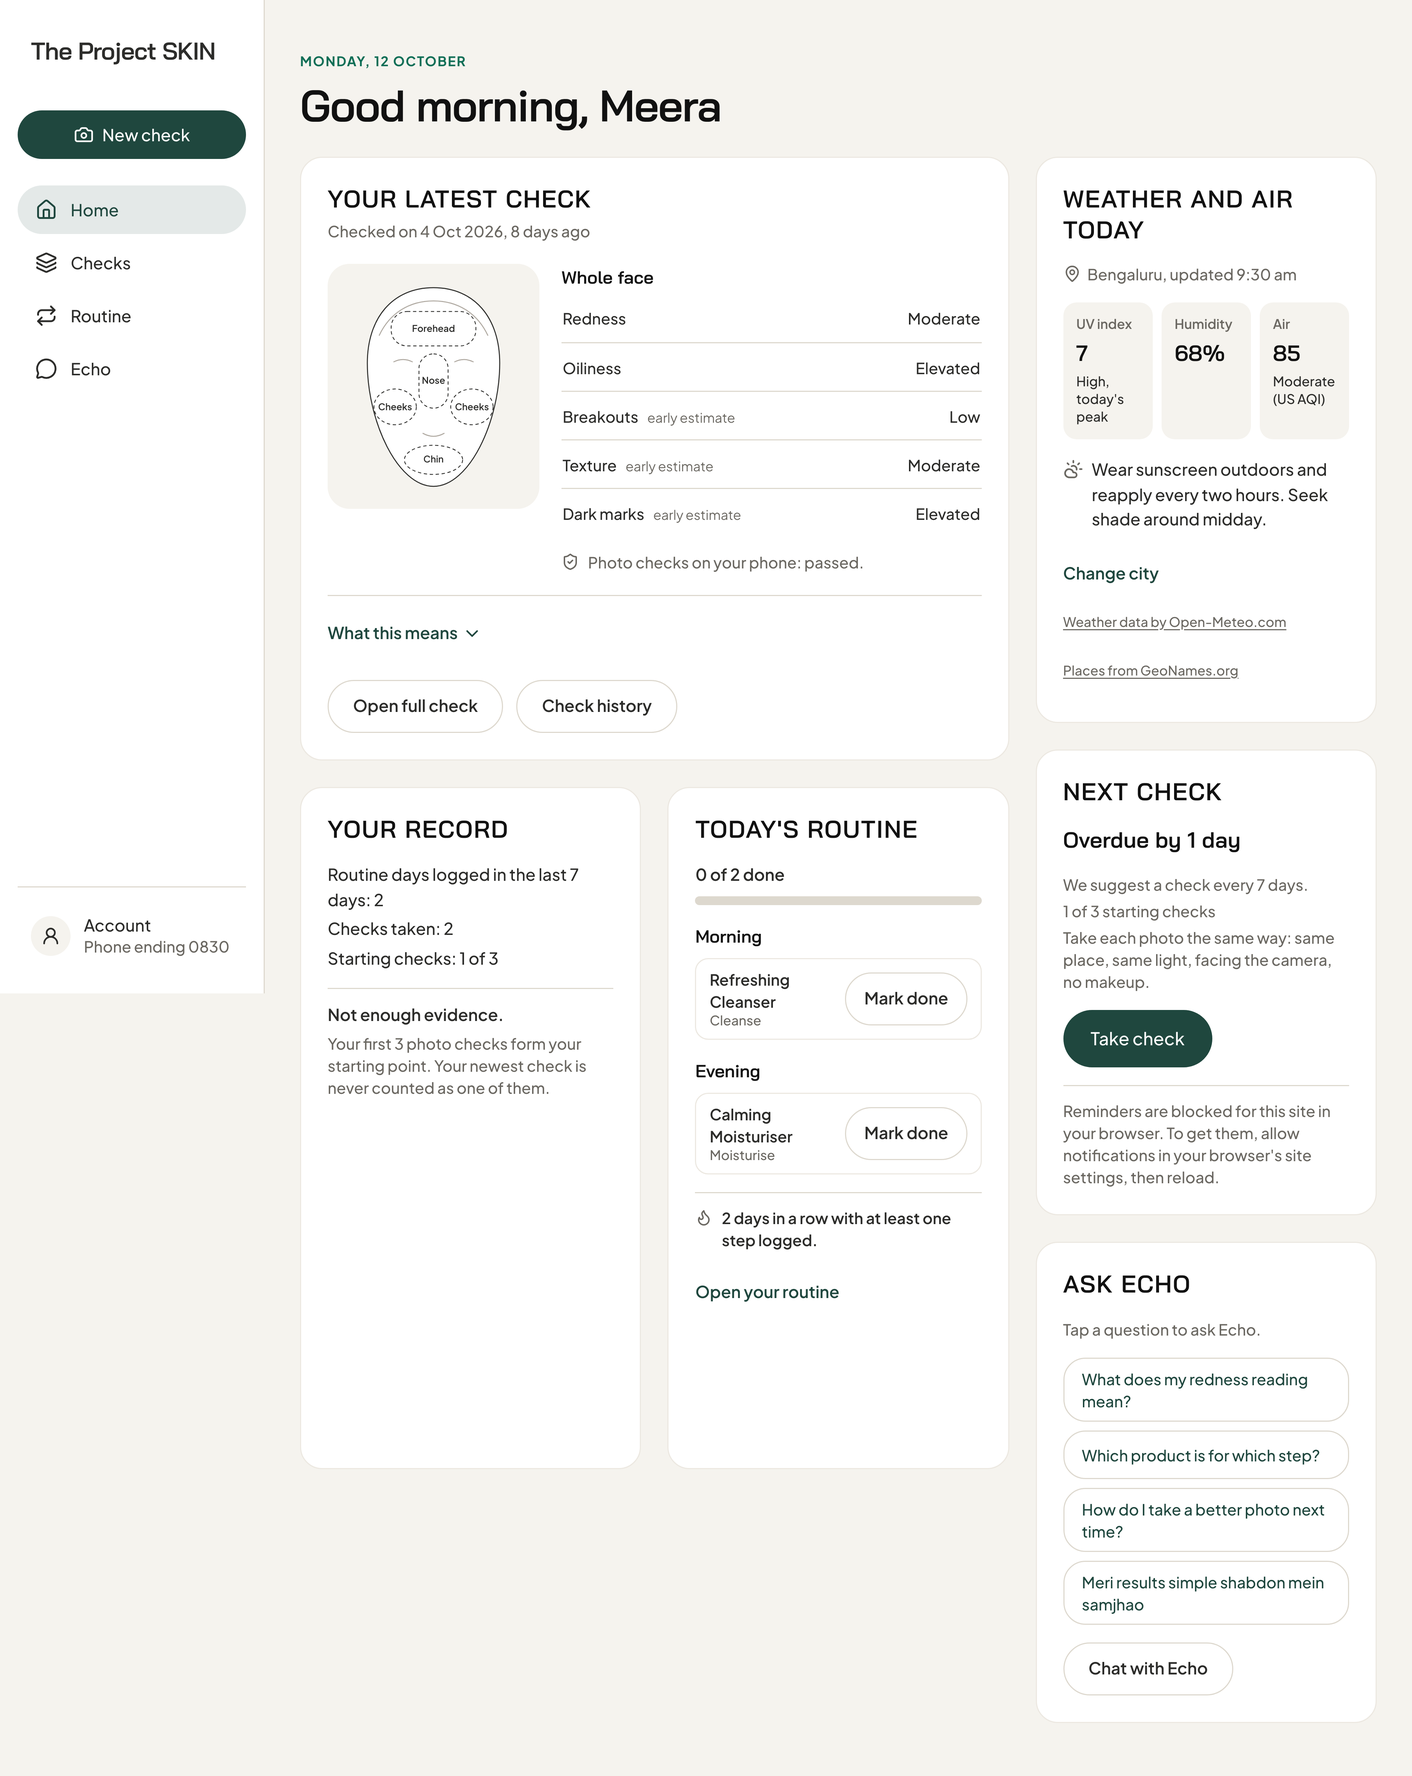
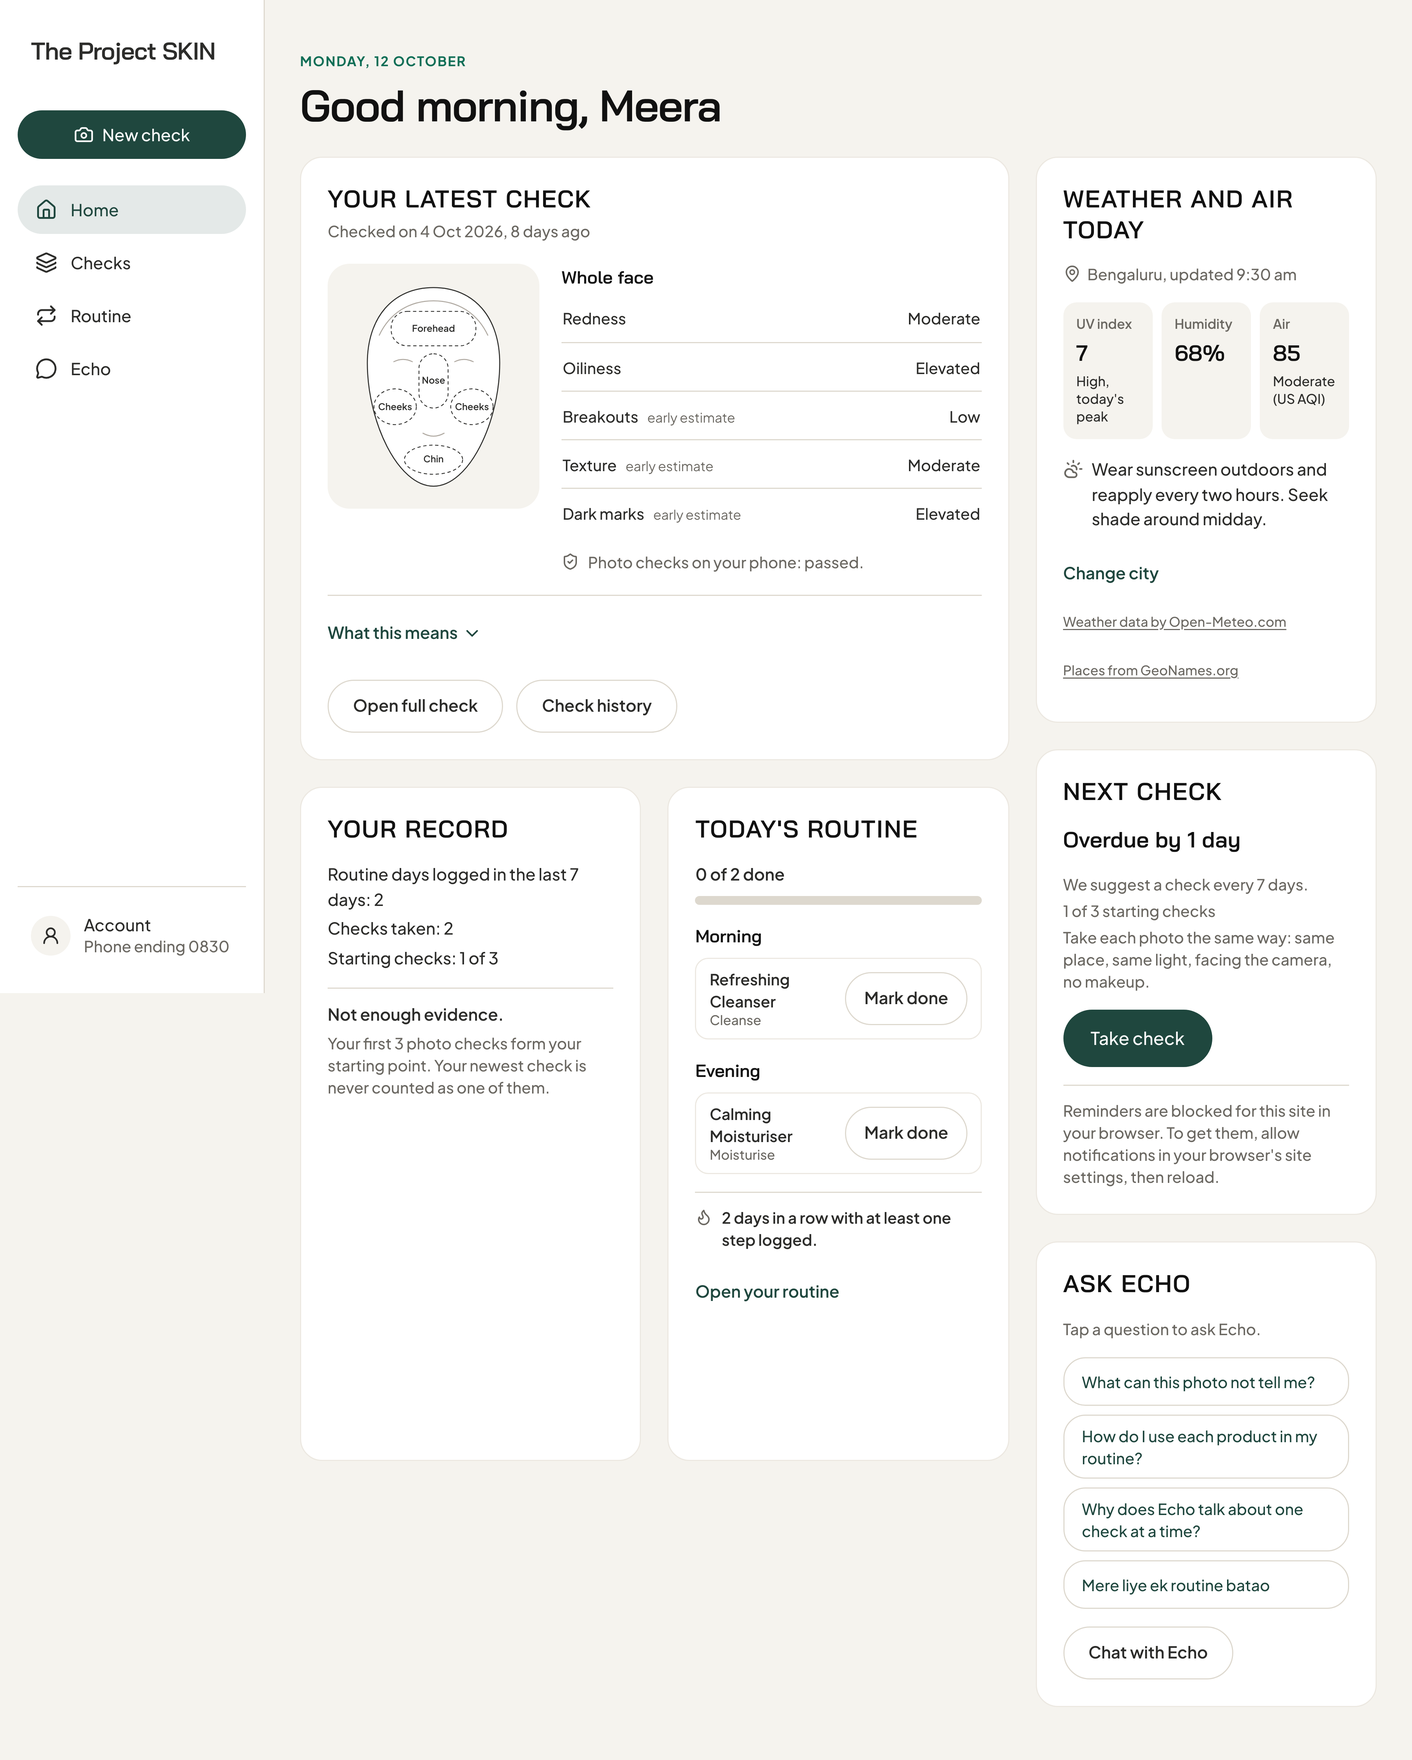
docs(tracker): G28 final test:all at af251b6
Claude-Session: https://claude.ai/code/session_01H4K9Nd3cGAtTNt8i1b7FXg

diff --git a/docs/PROJECT_SKIN_EXECUTION_TRACKER.md b/docs/PROJECT_SKIN_EXECUTION_TRACKER.md
@@ -19,7 +19,7 @@ Percentages measure execution tracking only. They are not scientific accuracy, m
 | Current deployment state | Frontend 3537f82 on Vercel bom1; engine 0.1.6 (skin-scan:3) on ECS ap-south-1; Firestore (default) asia-south1; S3 originals ap-south-1. Next: docs/OWNER_QUEUE.md (cost steps, backups, Gemini key, rules, merge PR #6, phone checks, old key, MFA). |
 | Current architecture state | Longitudinal substrate implemented on branch: server-side raw analysis (gate 01), skinstate-1 computed view (gate 03), trust boundary (gate 02), engine build + native stats inputs (gate 04). No longitudinal comparison, product system, ContextPackage or dashboard exists yet. |
 | Last tracker update | 2026-10-12 |
-| Last validated commit | 48dac01 on feat/home-v2 (2026-10-12, TD-47): npm run test:all exit 0 (unit 2305, stack 84/84, browser 105/105, build OK); PR open, not merged. Before: 61d4b67 on feat/echo-own-products (2026-10-10, TD-34): npm run test:all exit 0 (unit 2159, stack 78/78, browser 59/59, build OK); PR open, not merged. Before: 710ede8 on feat/optional-questionnaire (2026-10-10, TD-33, with the owner's copy decisions): npm run test:all exit 0 (unit 2069, stack 78/78, browser 52/52, build OK); PR #9 open, not merged. Before: 261e39e on release/real-users (2026-10-09, TD-29, after the security, safety and design review fixes): npm run test:all exit 0 (typecheck 0, lint clean, unit 2019 passed / 65 skipped in 93 files, local stack 15 files 64/64, browser 38/38, next build OK); rules emulator 25/25. PR #6 into master, not merged; CI verify and Vercel preview pass. Previous: 57aad53. |
+| Last validated commit | af251b6 on feat/home-v2 (2026-10-12, TD-47): npm run test:all exit 0 (unit 2305, stack 84/84, browser 109/109, build OK); PR open, not merged. Before: 61d4b67 on feat/echo-own-products (2026-10-10, TD-34): npm run test:all exit 0 (unit 2159, stack 78/78, browser 59/59, build OK); PR open, not merged. Before: 710ede8 on feat/optional-questionnaire (2026-10-10, TD-33, with the owner's copy decisions): npm run test:all exit 0 (unit 2069, stack 78/78, browser 52/52, build OK); PR #9 open, not merged. Before: 261e39e on release/real-users (2026-10-09, TD-29, after the security, safety and design review fixes): npm run test:all exit 0 (typecheck 0, lint clean, unit 2019 passed / 65 skipped in 93 files, local stack 15 files 64/64, browser 38/38, next build OK); rules emulator 25/25. PR #6 into master, not merged; CI verify and Vercel preview pass. Previous: 57aad53. |
 | Overall execution percentage | 60% = DONE 86 / (total 153 - LATER 9). Execution tracking only; NOT scientific accuracy or product readiness. DONE includes branch-only work not deployed. |
 | Build status counts | DONE 90, IN PROGRESS 2, NOT STARTED 30, BLOCKED 10, OWNER ACTION 23, LATER 10 (total 165) |
 | Check status counts | CHECKED PROD 6, CHECKED LOCAL 78, NOT NEEDED 17, NOT CHECKED 64 |
@@ -223,7 +223,7 @@ Execution order (TD-04, owner 2026-10-03): Phase 0 deploy is paused after C1. Fe
 | G25 | G | Dashboard | Echo starter questions (TD-41) | Three or four tappable questions above the message box, one per group (results, routine and products, using the app, Hinglish); a new set on each visit and after each answer; a question already asked in the chat is not shown again; product questions hidden while suggestions are off; all hidden when Echo cannot answer (questions not answered, daily limit, Echo off). Pool in components/skin-check/echoStarters.ts. Every pool question passes the comparison, red-flag, result-question and unsupported-script filters (tests/echo-starters.test.ts); "Why can't you compare my checks yet?" hit the comparison filter and was reworded to "Why does Echo talk about one check at a time?". | DONE | CHECKED LOCAL | P1 | E15 | TD-41 | Unassigned | Frontend Engineer | components/skin-check/EchoPage.tsx, components/skin-check/echoStarters.ts | Commit + unit and browser tests + screenshots at 390 | 2026-10-11 at d097346: typecheck 0, lint clean, unit 2229 passed / 79 skipped (119 files); browser, touched specs only on the local stack: flows "returning user" 3/3, echo-products 8/8. npm run test:all at e682b70 (2026-10-11, owner asked for one run): typecheck 0, lint clean, unit 2229 passed / 79 skipped, local stack 16 files 78/78, browser 77/84; the 7 failures were tests still expecting the removed re-ask (mesh.spec TD-39 x6, which waited for the current_products question) and a loose heading match (questionnaire.spec choice heading, also matched the progress label; made exact). After the fix the 7 pass on a fresh stack (7/7) and next build is OK. |  |  |  |  | DASHBOARD | 2026-10-11 |  |
 | G26 | G | Dashboard | Returning user: New check goes to the photo step (TD-43) | Bug: a returning user who started a new check could land on a filled-in About you with nothing left to tap. Cause: the saved answers are read after the page opens; if the user had started typing (slow read) or an earlier draft sat on About you, the answers were merged into About you but the jump to the photo step only ran when nothing had been answered yet, and the flow only advances on a tap. Fix: a signed-in user sees the loading frame until the read lands (at most 4 s) and is placed by section, not by whether anything was typed. New behaviour: an answered returning user goes Verify (passes by itself) to the photo step to results; the saved answers, the two once re-asked included, are attached to the new check; small link "Anything changed? Update your answers" on the photo step brings the question sections back filled in, each with a Continue. A user who skipped before gets the choice screen as today. | DONE | CHECKED LOCAL | P1 | G15 | TD-43 | Unassigned | Frontend Engineer | lib/useSkinCheckFlow.ts, lib/skin-check-validation.ts, components/skin-check/SkinCheckFlow.tsx | Commit + unit and browser tests | 2026-10-11 at d097346: typecheck 0, lint clean, unit 2229 passed / 79 skipped (119 files); browser, touched specs only on the local stack: flows "returning user" 3/3, echo-products 8/8. npm run test:all at e682b70 (2026-10-11, owner asked for one run): typecheck 0, lint clean, unit 2229 passed / 79 skipped, local stack 16 files 78/78, browser 77/84; the 7 failures were tests still expecting the removed re-ask (mesh.spec TD-39 x6, which waited for the current_products question) and a loose heading match (questionnaire.spec choice heading, also matched the progress label; made exact). After the fix the 7 pass on a fresh stack (7/7) and next build is OK. |  |  |  |  | DASHBOARD | 2026-10-11 |  |
 | G27 | G | Dashboard | Face drawing areas open Echo on that area (TD-46) | Owner 2026-10-11 (screenshots of Home and an opened check): the Forehead, Nose, Cheeks and Chin areas on the face drawing were not tappable. Now each area with a reading is a button (mouse and keyboard, named "Ask Echo about your <area>") that opens Echo on that area, on Home and on the opened newest check, only while Echo is on. An older check's areas stay a picture (Echo talks about the newest check only). The photo with the mesh is unchanged. | DONE | CHECKED LOCAL | P2 | G20 | TD-46 | Unassigned | Frontend Engineer | components/dashboard/FaceDrawing.tsx, CheckReadings.tsx, DashboardPage.tsx, copy.ts, components/checks/ChecksView.tsx | Commit + touched tests + test:all | Touched: tests/browser/dashboard.spec.ts (area opens Echo by keyboard; an older check has no area button), dashboard-copy, ui-wording, five-readings pass; tests/browser/mesh.spec.ts finds the drawing as a picture or a group. test:all at f7c250d: unit, stack and build passed; browser 81/86 (4 drawing role checks, fixed in c4f0401; 1 scan-route teardown race, unrelated). Re-run at c4f0401: typecheck, lint, browser 86/86. | fix/home-face-areas-open-echo | Local only; PR not merged |  | Owner: merge. | DASHBOARD | 2026-10-11 |  |
-| G28 | G | Dashboard | Home v2: what to do today (TD-47) | Owner brief 2026-10-11: Home rebuilt (greeting, next check, latest check, today's routine, weather and air today, your record, Ask Echo, new-check banner); one permissions screen after a check's results (location, reminders), once; city and choices in Account; weather from Open-Meteo on the server from rounded positions snapped to an offline place list; payload-free web push with our own VAPID keys and a daily cron. Both features ship off (WEATHER_SWITCH, PUSH_SWITCH). Design: docs/design/home-v2.md; release: docs/OWNER_QUEUE.md H0-H5. Three reviews (security, flow, design): all findings fixed except two owner questions (see report). | DONE | CHECKED LOCAL | P1 | G27 | TD-47 | Unassigned | Frontend Engineer | components/dashboard/, lib/home/, app/api/home/, firestore.rules, public/sw.js, app/globals.css | Commits + unit, rules, browser tests + screenshots + three reviews + test:all | npm run test:all at 48dac01 (2026-10-12): exit 0; typecheck 0, lint clean, unit 2305 passed / 85 skipped (105 files), local stack 17 files 84/84 (rules incl. tests/firestore-rules-home.test.ts, erase and fake-Gemini pins), browser 105/105, next build OK. Screenshots docs/design/home-v2/. | 5fb1de1..48dac01 | Local only; PR not merged | Open-Meteo key and plan (owner, H3); VAPID keys (H4); legal review H34 | Owner: H0, merge, H2; later H3, H4 | DASHBOARD | 2026-10-12 | Card names "Your record" and "Weather and air today" because "progress" and "conditions" are D-12 banned words (TD-47 agent note). |
+| G28 | G | Dashboard | Home v2: what to do today (TD-47) | Owner brief 2026-10-11: Home rebuilt (greeting, next check, latest check, today's routine, weather and air today, your record, Ask Echo, new-check banner); one permissions screen after a check's results (location, reminders), once; city and choices in Account; weather from Open-Meteo on the server from rounded positions snapped to an offline place list; payload-free web push with our own VAPID keys and a daily cron. Both features ship off (WEATHER_SWITCH, PUSH_SWITCH). Design: docs/design/home-v2.md; release: docs/OWNER_QUEUE.md H0-H5. Three reviews (security, flow, design): all findings fixed except two owner questions (see report). | DONE | CHECKED LOCAL | P1 | G27 | TD-47 | Unassigned | Frontend Engineer | components/dashboard/, lib/home/, app/api/home/, firestore.rules, public/sw.js, app/globals.css | Commits + unit, rules, browser tests + screenshots + three reviews + test:all | npm run test:all at af251b6 (2026-10-12, final, after all review fixes): exit 0; typecheck 0, lint clean, unit 2305 passed / 85 skipped (105 files), local stack 17 files 84/84 (rules incl. tests/firestore-rules-home.test.ts, erase and fake-Gemini pins), browser 109/109, next build OK. Earlier run at 48dac01: exit 0, browser 105/105. Screenshots docs/design/home-v2/. | 5fb1de1..af251b6 | Local only; PR not merged | Open-Meteo key and plan (owner, H3); VAPID keys (H4); legal review H34 | Owner: H0, merge, H2; later H3, H4 | DASHBOARD | 2026-10-12 | Card names "Your record" and "Weather and air today" because "progress" and "conditions" are D-12 banned words (TD-47 agent note). |
 | G09 | G | Dashboard | Rules vs the real store products: questions for the clinical reviewer | /dev/recommendations runs lib/rules on the six public-store products (unverified). 9 mismatches remain, each a question (the two owner questions, "Calming Moisturiser" and "Treat", were decided in TD-26 and removed from the list on 2026-10-06): the store cleanser has 2% salicylic acid + 1% glycolic acid so it is neither base nor the active (no cleanser in any routine, also under a red flag); the sunscreen lists niacinamide so it is not base (no sunscreen); so the base routine is the moisturiser alone; three Treat products but one allowed active (niacinamide serum only); Active Boba has two active classes and was sold out; serum concentration and Zinc PCA / PDRN not modelled; no salicylic-acid pregnancy contraindication (only the retinoid notice); no "start once daily / patch test" rule; the kit is not modelled (owner). | OWNER ACTION | NOT CHECKED | P1 | E05, G10 | E05 / TD-20 | Owner | Clinical reviewer | app/dev/recommendations/mismatches.ts; lib/rules (unchanged) | Clinical reviewer answers; then owner-approved rule changes (new ruleset version) and real catalogue rows (R-3 A) | tests/dev-recommendations.test.ts checks every testable "rules" sentence against recommend(). |  | Questions only; rules not changed. | Needs the clinical reviewer (E05) and owner catalogue data. | Owner gives the list (on /dev/recommendations under npm run dev:local) to the clinical reviewer. | DASHBOARD | 2026-10-06 | Store data read 2026-10-06 from theprojectskin.com product pages; not owner-verified. |
 | G10 | G | Dashboard | Live-site brand, face drawing, routine steps, recommendation preview (brief 2026-10-06) | Part 1: computed styles of theprojectskin.com read with Playwright; brand table in docs/design/system.md §0; app green #0f6e56 -> live theme colour #1f473e, linen page with white cards, live type, buttons, eyebrows; contrast test. Part 2: face drawing is the area picker (tap, keyboard, screen reader; choose again for whole face), labels inside areas, chosen area in the brand tint, same drawing on Home, opened check and results. Part 3: Home card and /routine show the store's four steps for morning and evening with one-tap Used or Skipped and an add invite per empty step. Part 4: /dev/recommendations (local only, 404 in production builds) with a second, unverified store catalogue and the G09 mismatch list. Part 5: after screenshots, design and safety reviews, fixes. | DONE | CHECKED LOCAL | P1 | G03 | D-12 (LOCKED), TD-24, TD-25, O-D1 | Owner | Frontend/Dashboard Engineer (lead) | app/, components/, lib/routine/copy.ts, tailwind.config.ts, docs/design/ | Commits + unit, browser and build tests; after screenshots; two reviews | npm run test:all exit 0 at 773b659 (2026-10-06): typecheck 0, lint clean, test:local (unit 1983 passed / 64 skipped in 91 files; stack 15 files 63/63), test:browser 38/38, next build exit 0. Production build checked by hand: next start, GET /dev/recommendations 404 (no page content), /routine 200. docs/design/live-styles-2026-10-06.json (raw readings), system.md §0, after/ (118 screenshots at 390/768/1280). Reviews: safety (5 findings: 2 medium wording errors in the mismatch list, 3 low; all fixed in c455ba8), design (12 findings: 1 high (routine screenshots never captured the logged state), 5 medium, 6 low). Fixed in b129db8: 1-5, 8-10, and parts of 6 and 7 (ErrorState fill, 8px step rows; unused gradient, glass and card-surface styles removed, white shadcn card). Left as they are: 6 rest (alert boxes in SkinCheckDashboard, EchoPage and PhotoCapture keep the #ddd8ce border; the Home Recently card stays transparent with a border), 7 rest (the unused echo, sage and rebel palettes stay in tailwind.config.ts; they generate no CSS), 11 (no way to clear a logged Used or Skipped: the routine events have no clear event, data model unchanged), 12 (dev page style accepted). | 0a35cc6, 8866060, f29f771, b06ee32, a2280b4, c455ba8, b129db8, 773b659 | Local only; not deployed. |  | Deploy with the Phase 0 runbook; owner: G08, G09. | DASHBOARD | 2026-10-06 | Branch redesign/ui (worktree skin-check-redesign), fast-forwarded into longitudinal-platform. Same do-not-change list as G03: lib/contracts, lib/longitudinal, lib/rules, lib/context, safety filters, Gemini code, Firestore rules, consent and deletion logic, scan pipeline (none touched). Decisions made in-task, not owner decisions: one green (#1f473e) except eyebrows (#0f6e56); white on the store's #0f9b8e fails contrast so it is not used; body 15px/500 but form fields 16px (iOS zoom); step 2 "Serum" (G08); the store catalogue uses dataSource "synthetic" because the schema has no "public, unverified" value (labelled STORE_SOURCE everywhere it is shown, never imported outside app/dev, tested). The owner's running dev stack for this worktree was stopped to run fresh screenshots and test:all; restart with npm run dev:local. |
 | H01 | H | Privacy / Safety | Consent / retention / deletion fan-out | Server-written consent ledger; erasure S3 -> Firestore -> Auth. | OWNER ACTION | CHECKED LOCAL | P0 | A04 | D-16 / D-17 (TD-08, TD-10) | Owner | Security/Privacy Reviewer | app/api/account/, lib/s3.ts, lib/s3-key.ts, lib/consent.ts, firestore.rules lane:privacy, DeleteAccount.tsx | Ledger + erasure route + tests + live verification | Built (lane privacy, merged 1dd4acf): server-written consentLedger (owner read-only rules); presign records image_retention; erase route (fresh sign-in, preflight, revoke -> S3 prefix with a separate erase credential pair -> Firestore recursiveDelete -> Auth; receipt with no uid); delete section on /account. After merge: R5 dev guard refuses real AWS erase keys (9b534e7); erasure proven to remove routineEvents (2f00819) and the under-18 record, and the tab marker is cleared (bc45a01, owner TD-10); processing consent recorded per scan (a52f36d, step 14, R3/R4; recovery re-send fix 2d0d1a1 from security review). Tests: privacy-ledger, privacy-erase, privacy-s3-erase, privacy-delete-account, privacy-processing-consent, firestore-rules-privacy, privacy.e2e. Final run 2026-10-04 at bff6e25: npm run test:local exit 0 (unit 597 passed / 41 skipped in 53 files; stack 41/41: rules 24 + routine 8 + privacy 5, e2e routine, privacy, local-stack, capture); typecheck 0; lint clean; next build exit 0. Job S 2026-10-07 (TD-28, agent): S1 PASS: bucket versioning never enabled, no Object Lock; IAM user skin-check-eraser with inline policy skin-check-erase-originals (s3:ListBucket on the bucket with prefix users/*, s3:DeleteObject on users/*), no attached policies. S2 PASS: one Active key piped into Vercel Production S3_SKIN_IMAGES_ERASE_ACCESS_KEY_ID and _SECRET_ACCESS_KEY (sensitive, never printed). S3 PASS: CRON_SECRET (32 random bytes hex, sensitive) in Production. S4 PASS: no development-only setting in Production. S6 PASS: GEMINI_MODEL_SYNTHESIS removed and set to gemini-3.6-flash (value confirmed in D4 item 4). S7 PASS: bucket encryption AES256; IAM user skin-check-photo-reader with inline policy skin-check-read-kept-originals (only s3:GetObject on users/*/scans/*/original.jpg, no ListBucket), no attached policies or groups. S8 PASS: one Active key piped into S3_SKIN_IMAGES_READ_ACCESS_KEY_ID and _SECRET_ACCESS_KEY. S5 skipped (decision 5). Settings take effect with the D2 build. | 52cbbbc, 9808fd5, bbaa10a, 2155645, f8f2b64, 72b293d; merge 1dd4acf; 9b534e7, 2f00819, bc45a01, a52f36d, 2d0d1a1, bff6e25 | Local only (S3Mock, emulators). No production erase principal exists. | Owner: erase IAM principal and policy (decision 11a, privacy T4); retention period (decision 5, privacy T5: IMAGE_RETENTION_PERIOD_DAYS is null). | Owner creates the erase principal (ListBucket on users/*, DeleteObject); re-check versioning and Object Lock before go-live; decide the retention number, then an S3 lifecycle rule (infra). Writes after erase: H04. Final processing copy: H06. | PRIVACY/SAFETY | 2026-10-07 | H01_S3_ERASURE_READINESS.md (4631de5): versioning never enabled, no Object Lock, no lifecycle. |
